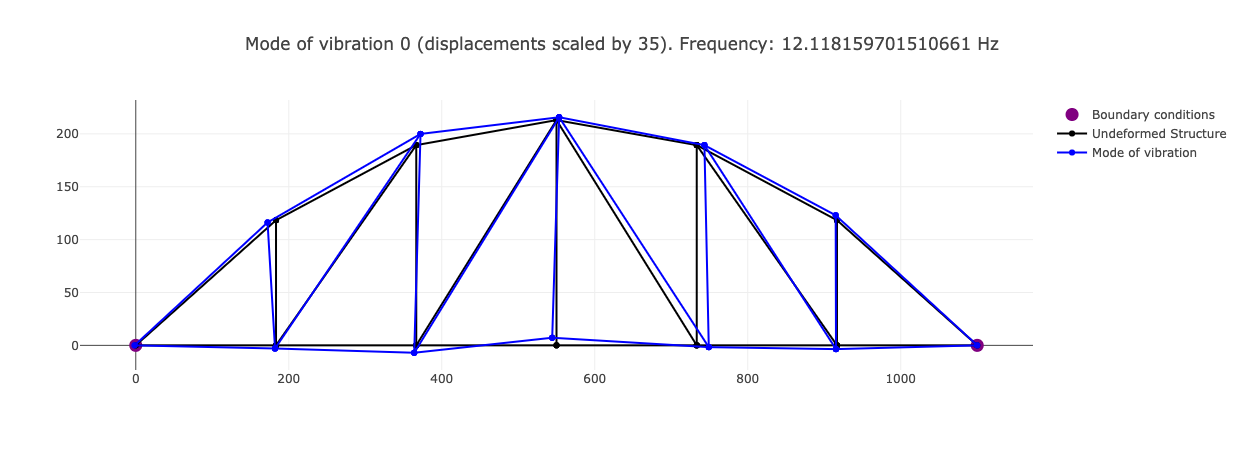
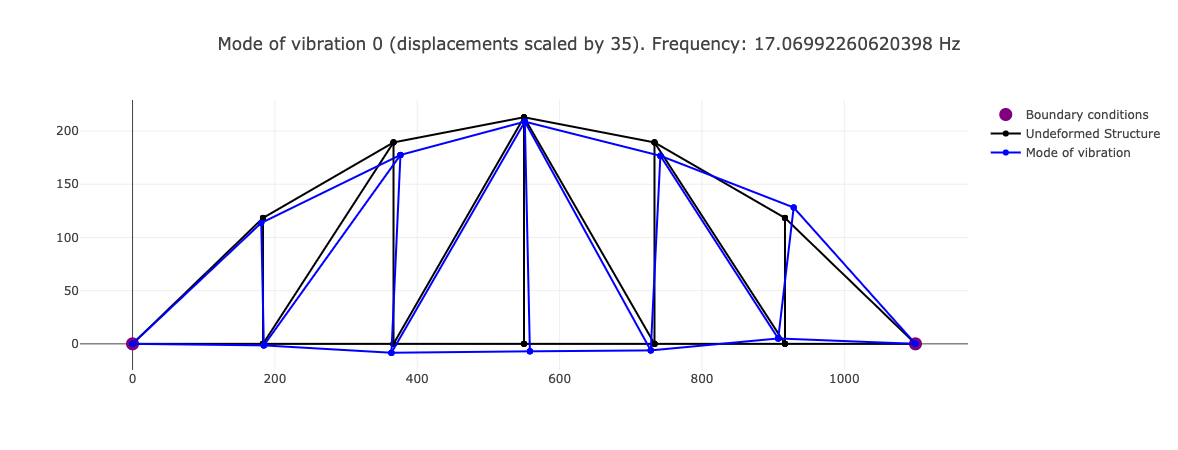
static analysis

diff --git a/src/tests/bridgeStatic.ts b/src/tests/bridgeStatic.ts
@@ -1,0 +1,66 @@
+import { Element } from '../models/element'
+import { Node } from '../models/node'
+import { BoundaryCondition } from '../models/boundaryCondition'
+import { StaticProblem } from '../models/staticProblem'
+import { Load } from '../models/load'
+
+/**
+ * Test of static analisys of a truss bridge
+ */
+export function BridgeStatic () {
+    console.log('Bridge static test 2')
+
+    const L = 1100 // bridge length
+    const H = 213 // bridge height
+    const properties = { E: 30 * 1000000, A: 8, rho: 7.4 / 10000 }
+    const elementType = 'Truss'
+
+    const elementLength = L / 6
+    // Bridge top arch equation
+    function y (x: number):number {
+        x = x - 3 * elementLength
+        const a = -4 * H / (L * L)
+        return a * x * x + H
+    }
+
+    const p = new StaticProblem()
+
+    // Build floorNodes and archNodes
+    const floorNodes: Node[] = []
+    const archNodes: Node[] = []
+    for (let i = 0; i < 7; i++) {
+        floorNodes.push(Node.get(i * elementLength, 0, p))
+    }
+    for (let i = 1; i < 6; i++) {
+        archNodes.push(Node.get(i * elementLength, y(i * elementLength), p))
+    }
+
+    // Connect floor and arch elements
+    for (let i = 0; i < floorNodes.length - 1; i++) {
+        new Element(elementType, floorNodes[i], floorNodes[i + 1], properties, p)
+    }
+    for (let i = 0; i < archNodes.length - 1; i++) {
+        new Element(elementType, archNodes[i], archNodes[i + 1], properties, p)
+    }
+
+    // Vertical elements between floor and arch
+    for (let i = 1; i < floorNodes.length - 1; i++) {
+        new Element(elementType, floorNodes[i], archNodes[i - 1], properties, p)
+    }
+
+    // Diagonal elements between floor and arch
+    for (let i = 0; i <= 2; i++) {
+        new Element(elementType, floorNodes[i], archNodes[i], properties, p)
+    }
+    for (let i = 2; i <= 4; i++) {
+        new Element(elementType, archNodes[i], floorNodes[i + 2], properties, p)
+    }
+    new Load(0, -1000, 0, archNodes[2], p)
+    new BoundaryCondition(floorNodes[0], 'Pin', p)
+    new BoundaryCondition(floorNodes[6], 'Pin', p)
+
+    p.solve()
+    p.plotDisplacements(2000)
+
+    console.log('ok')
+}

diff --git a/src/index.ts b/src/index.ts
@@ -1,12 +1,14 @@
 /* eslint-disable no-unused-vars */
 
 import { BridgeModal } from './tests/bridgeModal'
+import { BridgeStatic } from './tests/bridgeStatic'
 import { FallingTruss } from './tests/fallingTruss'
 import { StaticTruss } from './tests/staticTruss'
 import { TrussAxialImpact } from './tests/trussAxialImpact'
 
 // Tests
-StaticTruss()
-TrussAxialImpact()
-FallingTruss()
+// StaticTruss()
+// TrussAxialImpact()
+// FallingTruss()
 BridgeModal()
+BridgeStatic()

diff --git a/src/tests/bridgeModal.ts b/src/tests/bridgeModal.ts
@@ -57,7 +57,7 @@ export function BridgeModal () {
         for (let i = 2; i <= 4; i++) {
             new Element(elementType, archNodes[i], floorNodes[i + 2], properties, p)
         }
-        new BoundaryCondition(floorNodes[0], 'RollerX', p)
+        new BoundaryCondition(floorNodes[0], 'Pin', p)
         new BoundaryCondition(floorNodes[6], 'Pin', p)
     }
 

diff --git a/README.md b/README.md
@@ -1,5 +1,6 @@
 # PoliFEM
 <img src="modal.png" width="800">
+<img src="static.png" width="800">
 
 ## About
 Static and dynamic (modal and time history) Finite Element Solver for frames, beams and truss structures.
